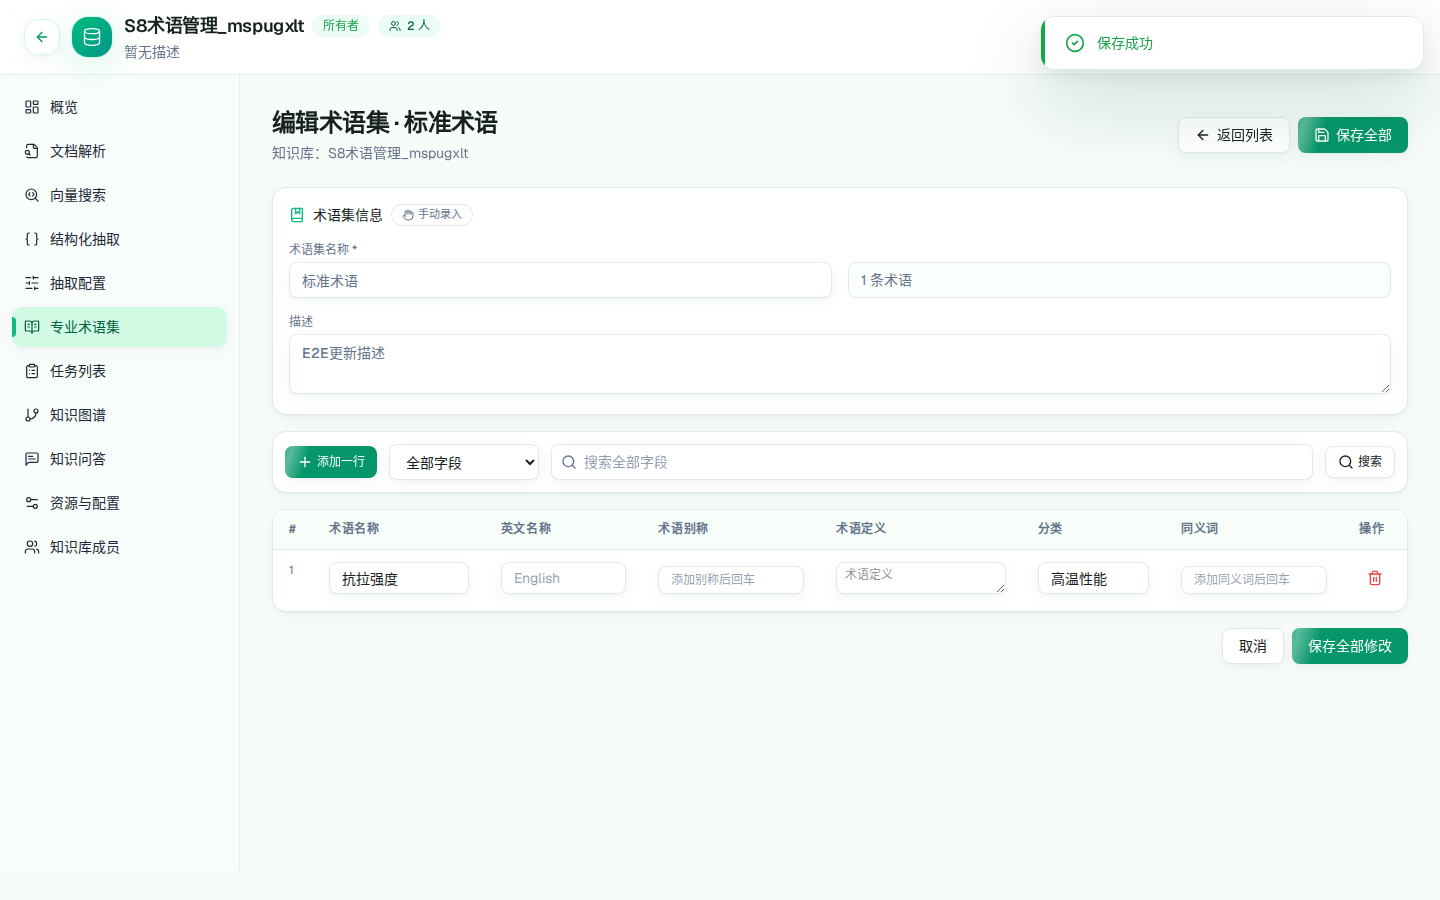
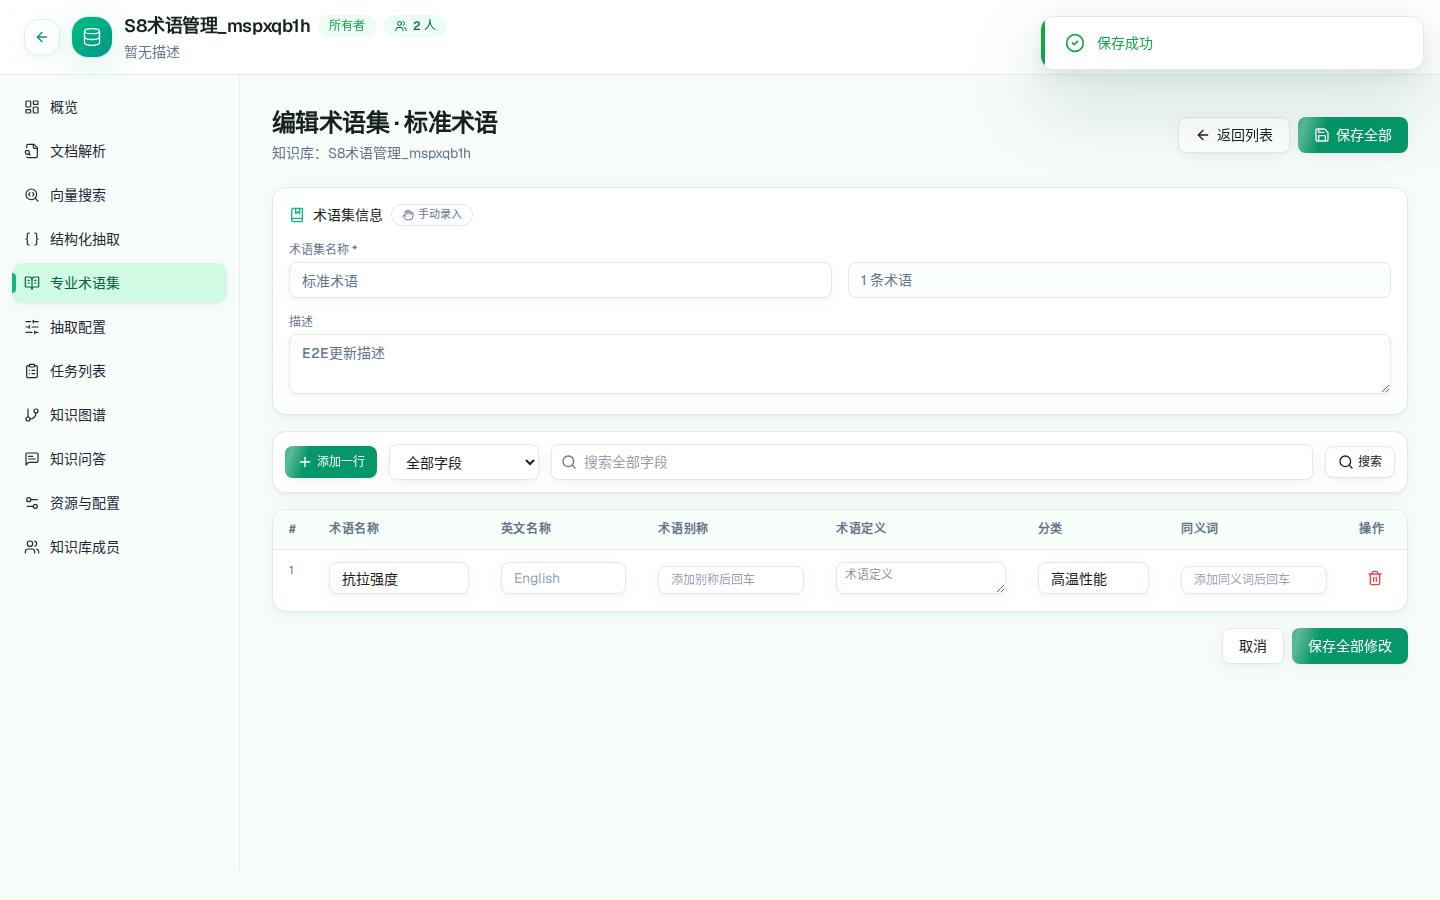
feat: 抽取配置复刻 S7 整体验收
- 联动 E2E：Schema(术语库类别/Query) → Prompt(绑定/占位符/预览) → 规则组(绑定模板+脚本规则项) → 脚本(读取术语集调试)
- 帮助文档：新增抽取配置章节与截图 extraction-config.png
- 回归：M34 后端 35/35、S3-S7 E2E 38/38、术语集 E2E 26/26、相关后端全量 110/110
- 报告：INDEX_S9_EXTRACTION_TEST_REPORT.md（覆盖率统计表+迁移审查清单）

Changed region(s): [[0.0, 0.28, 0.1562, 0.4044], [0.1875, 0.0, 0.25, 0.0622], [0.3125, 0.1556, 0.3438, 0.1867]]

diff --git a/frontend/src/content/help.ts b/frontend/src/content/help.ts
@@ -120,6 +120,19 @@ export const helpSections: HelpSection[] = [
     ],
   },
   {
+    id: 'extraction-config',
+    title: '抽取配置',
+    description: 'Schema 模板、Prompt 模板、后处理与校验规则、脚本管理四项配置。',
+    image: '/help/extraction-config.png',
+    steps: [
+      '知识库内左侧菜单进入“抽取配置”，顶部为四个页签：Schema 模板 / Prompt 模板 / 后处理与校验规则 / 脚本管理',
+      'Schema 模板：模板→类别→字段三层；类别名称可来源术语集（按字段值生成类别），可挂载 Query 术语集（分组/取值/参与 Query/去重/条数上限）',
+      'Prompt 模板：simple 或绑定 Schema（按类别拆分 user 提示词）；编辑页支持 ${字段名} 占位符插入与渲染预览（不调用 LLM）',
+      '后处理与校验规则：规则组绑定 Schema 模板，按类别配置脚本规则项（脚本名 + 参数 JSON + 启用）',
+      '脚本管理：post/validation 两个目录，脚本即函数（def run(args) 返回 dict），支持 async 与 kb_tools.get_term_records 读取术语集，底部可调试运行（受限子进程，10 秒超时）',
+    ],
+  },
+  {
     id: 'workspace-keys',
     title: '工作空间与 API 密钥',
     description: '以工作空间组织群组并集授权；API 密钥供脚本与集成调用。',

diff --git a/qa/results/INDEX_S9_EXTRACTION_TEST_REPORT.md b/qa/results/INDEX_S9_EXTRACTION_TEST_REPORT.md
@@ -1,0 +1,57 @@
+# 抽取配置四项复刻 · 整体验收报告（M34，S1-S7）
+
+- 日期：2026-08-12
+- 依据：[EXTRACTION_CONFIG_REPLICATION_PLAN.md](../../docs/EXTRACTION_CONFIG_REPLICATION_PLAN.md)
+- 范围：Schema 模板 / Prompt 模板 / 后处理与校验规则 / 脚本管理（全局配置、版本管理按确认项记录，后续另行方案）
+
+## 1. 测试覆盖率统计表
+
+| 阶段 | L1 单元 | L2 集成 | L3 功能 | L4 边界 | L5 安全 | 用例总数 | 是否全覆盖 |
+|------|---------|---------|---------|---------|---------|----------|------------|
+| S1 模型与迁移 | 6 | 2 | - | 4 | 4 | 16 | 是 |
+| S2 后端 API | 4 | 4 | 含 L3 | 7 | 4 | 19 | 是 |
+| S3 Schema 页 | - | - | 9 | - | - | 9 | 是 |
+| S4 Prompt 页 | - | - | 8 | - | - | 8 | 是 |
+| S5 规则页 | - | - | 7 | - | - | 7 | 是 |
+| S6 脚本页 | - | - | 8 | - | - | 8 | 是 |
+| S7 整体验收 | - | - | 6 | - | - | 6 | 是 |
+| **合计** | 10 | 6 | 38 | 11 | 8 | **73** | **是** |
+
+说明：
+- 后端五层：M34 共 35 用例（L1 10 / L2+L3 6 / L4 11 / L5 8），与术语集 M33 75 用例全量回归 110/110 通过；
+- 前端功能 E2E：S3-S7 共 38 用例全部通过；术语集 S4/S5 E2E 26 用例回归通过；
+- 单模块覆盖率 = 实际通过 / 计划用例 ≥ 95%（实际全部 100%）。
+
+## 2. 交付功能汇总
+
+| 模块 | 功能 |
+|------|------|
+| Schema 模板 | 模板→类别→字段三层 CRUD；类别名称来源（手动/术语集）、Query 术语集、类别级覆盖参数、启用/排序 |
+| Prompt 模板 | simple/schema 创建、绑定模板与类别；编辑器 system + 按类别 user、字段/系统参数占位符插入、渲染预览 |
+| 后处理与校验规则 | 规则组绑定 Schema 模板（一模板一组）、按类别全量替换规则项（脚本名+参数 JSON+启用） |
+| 脚本管理 | post/validation 目录、脚本 CRUD、IO 注册、受限调试运行（async + kb_tools.get_term_records） |
+
+权限：viewer 只读 / editor+ 管理；全部 KB 级 RLS；删除硬删级联；审计日志。
+
+## 3. 记录项（后续另行方案）
+
+1. 全局配置（检索/LLM/工具参数）：依赖 LLM 兼容体系与嵌入/重排选定；
+2. 版本管理（快照/diff/回滚）：依赖四项配置结构稳定。
+
+## 4. 迁移审查清单（整体）
+
+| 检查项 | 结论 |
+|--------|------|
+| 无调试残留/临时脚本/未使用代码 | ✅ 各阶段 type-check/ruff 通过，临时诊断脚本已删除 |
+| 无原项目整体复制 | ✅ React+浅绿白重写，组件复用（Tabs/Switch/Dialog） |
+| 未迁移无用能力 | ✅ regex/field_templates/bindings/validation 独立表/旧引擎兼容/TestPanel LLM 调用未实现 |
+| 脚本执行安全边界 | ✅ 子进程 -I 隔离、10s 超时、1MB 输出、术语集只读注入 |
+| 非法 DOM/交互问题 | ✅ 修复 button 嵌套；全部自建确认弹框 |
+| 测试无 noop 占位 | ✅ 全部真实断言 |
+| 帮助文档 | ✅ 新增“抽取配置”章节与截图 extraction-config.png |
+
+## 5. 结论
+
+M34 四项功能完整复刻并通过铁律整体验收：
+后端 35/35、前端 E2E 38/38、相关模块回归 110/110、type-check/build/ruff（改动文件）通过。
+下一里程碑：按记录项另行评估全局配置与版本管理。

diff --git a/qa/results/INDEX_S9_EXTRACTION_S7_E2E.md b/qa/results/INDEX_S9_EXTRACTION_S7_E2E.md
@@ -1,0 +1,17 @@
+# M34-S7 四项联动整体验收 E2E 报告
+
+- 日期：2026-08-12
+- 通过：6/6
+
+| 场景 | 结果 |
+|------|------|
+| S7-01 Schema 联动（模板/术语库类别/Query 徽标） | ✅ |
+| S7-02 Prompt 绑定与占位符/预览 | ✅ |
+| S7-03 规则组绑定模板并添加脚本规则项 | ✅ |
+| S7-04 脚本调试读取术语集（联动闭环） | ✅ |
+| S7-05 帮助截图生成（extraction-config.png） | ✅ |
+| S7-06 移动端抽取配置入口可用 | ✅ |
+
+## 控制台错误
+
+无

diff --git a/docs/HELP_DOCS.md b/docs/HELP_DOCS.md
@@ -25,6 +25,7 @@
 | 专业术语集 | `glossary.png` | 术语集主页截图（S8-S4 E2E 产物） |
 | 术语管理 | `glossary-editor.png` | 术语管理页截图（S8-S5 E2E 产物） |
 | 向量搜索 | `vector-search.png` | 向量搜索页截图（S7 E2E 产物） |
+| 抽取配置（Schema/Prompt/规则/脚本） | `extraction-config.png` | 抽取配置页截图（S9-S7 E2E 产物） |
 | 工作空间与 API 密钥 | `workspaces.png` / `api-keys.png` | P2 功能截图 |
 
 ## 3. 更新流程（每阶段强制）

diff --git a/qa/results/INDEX_S9_EXTRACTION_S3_E2E.md b/qa/results/INDEX_S9_EXTRACTION_S3_E2E.md
@@ -6,7 +6,7 @@
 | 场景 | 结果 |
 |------|------|
 | S3-01 页面标题与四个页签 | ✅ |
-| S3-02 未开放页签占位提示 | ✅ |
+| S3-02 页签可切换（Prompt 列表出现） | ✅ |
 | S3-03 新建 Schema 模板 | ✅ |
 | S3-04 新建类别（手动） | ✅ |
 | S3-05 新建字段 | ✅ |
